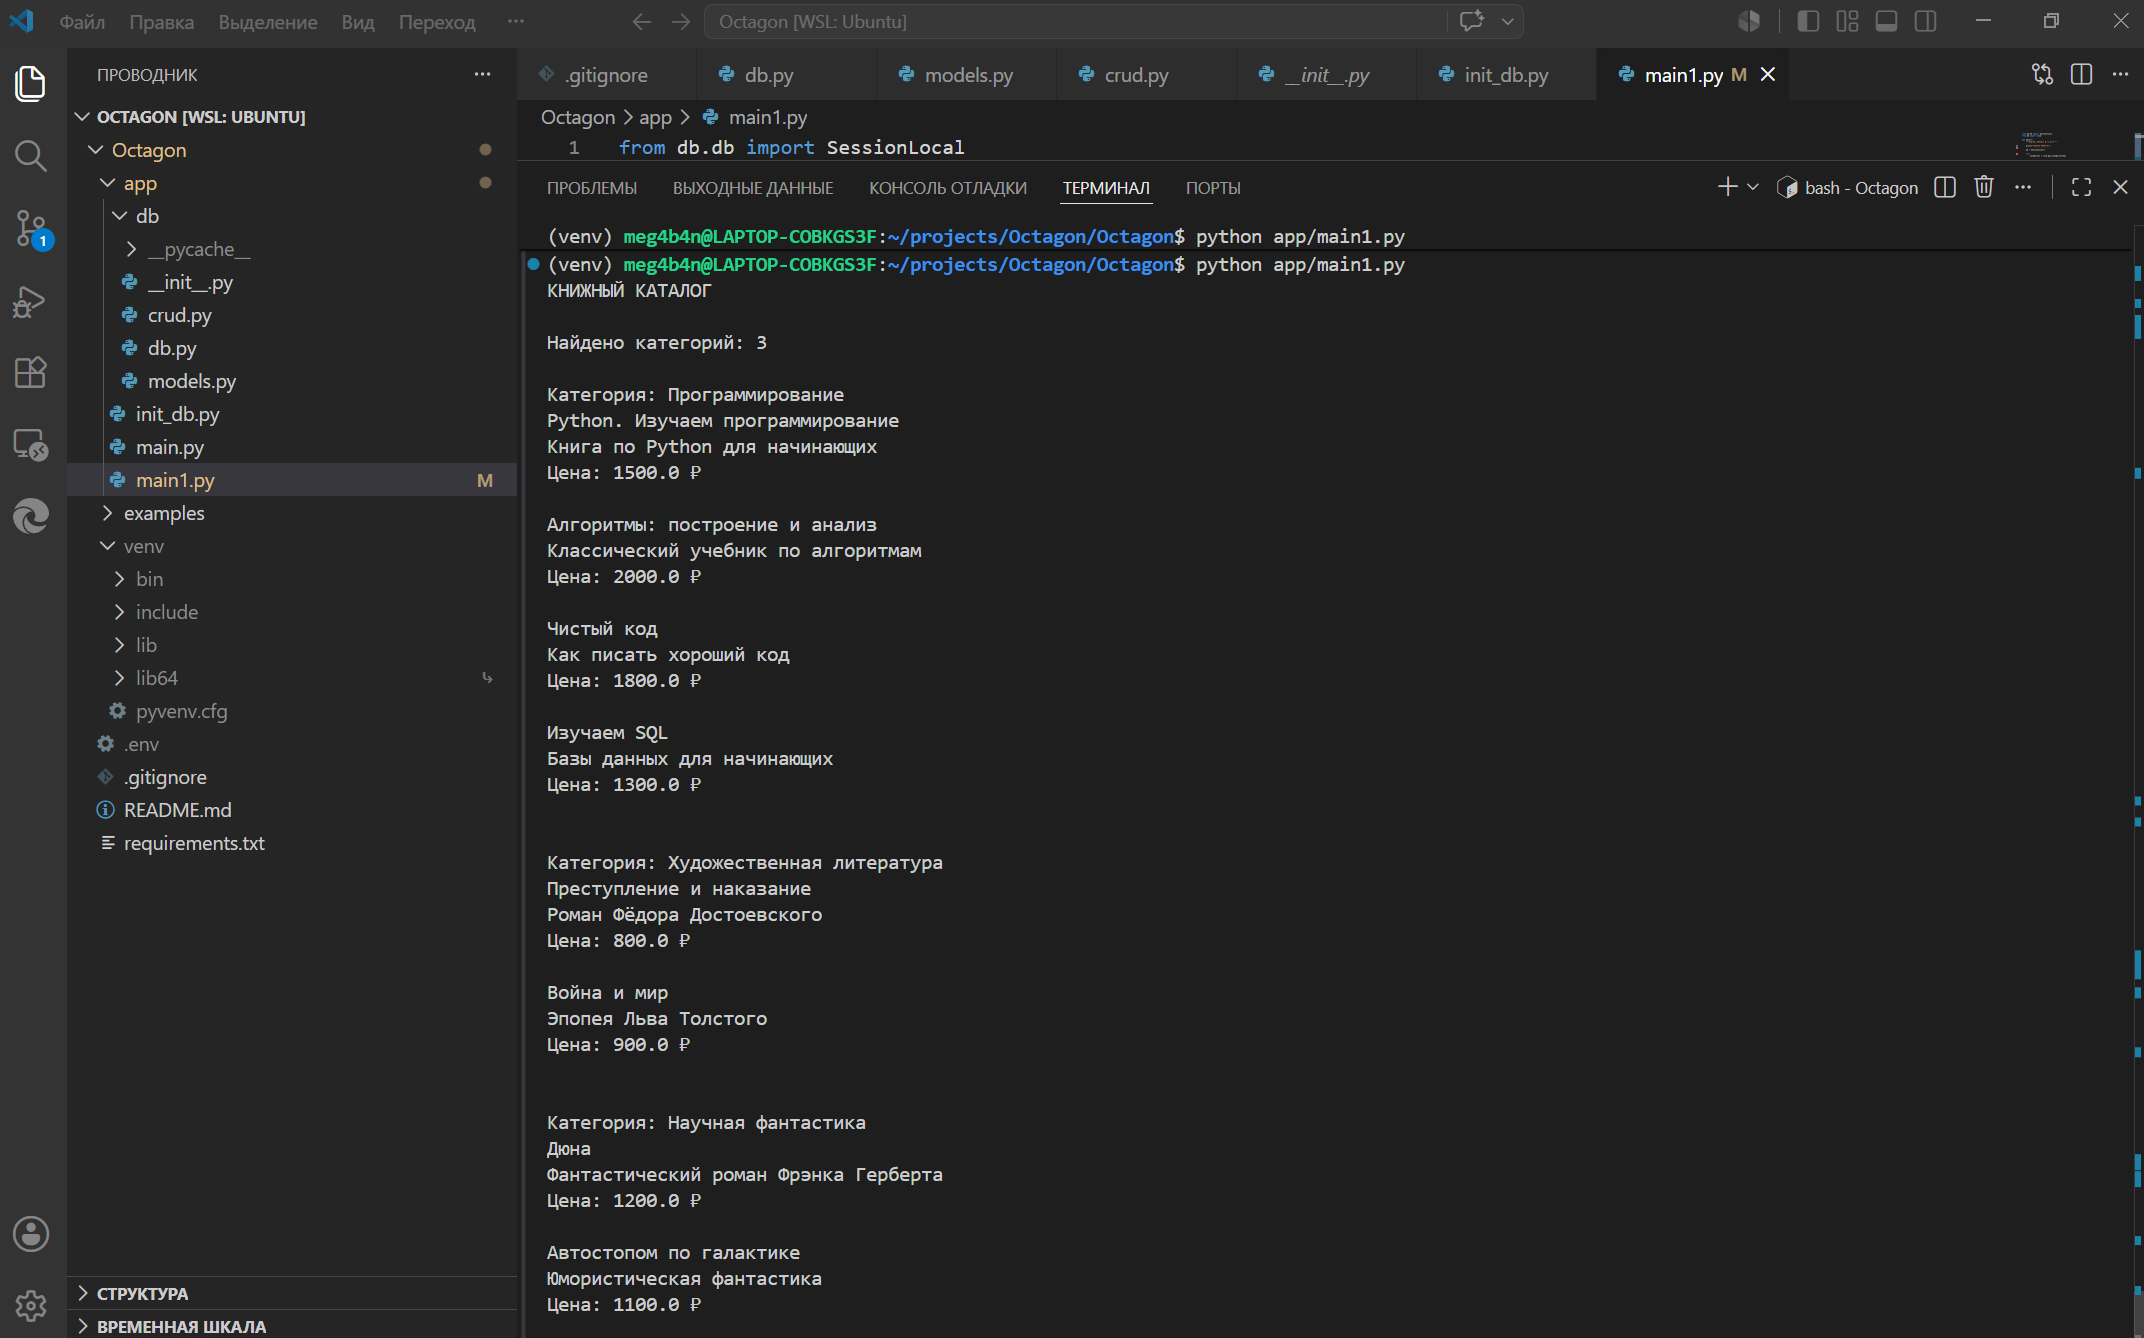
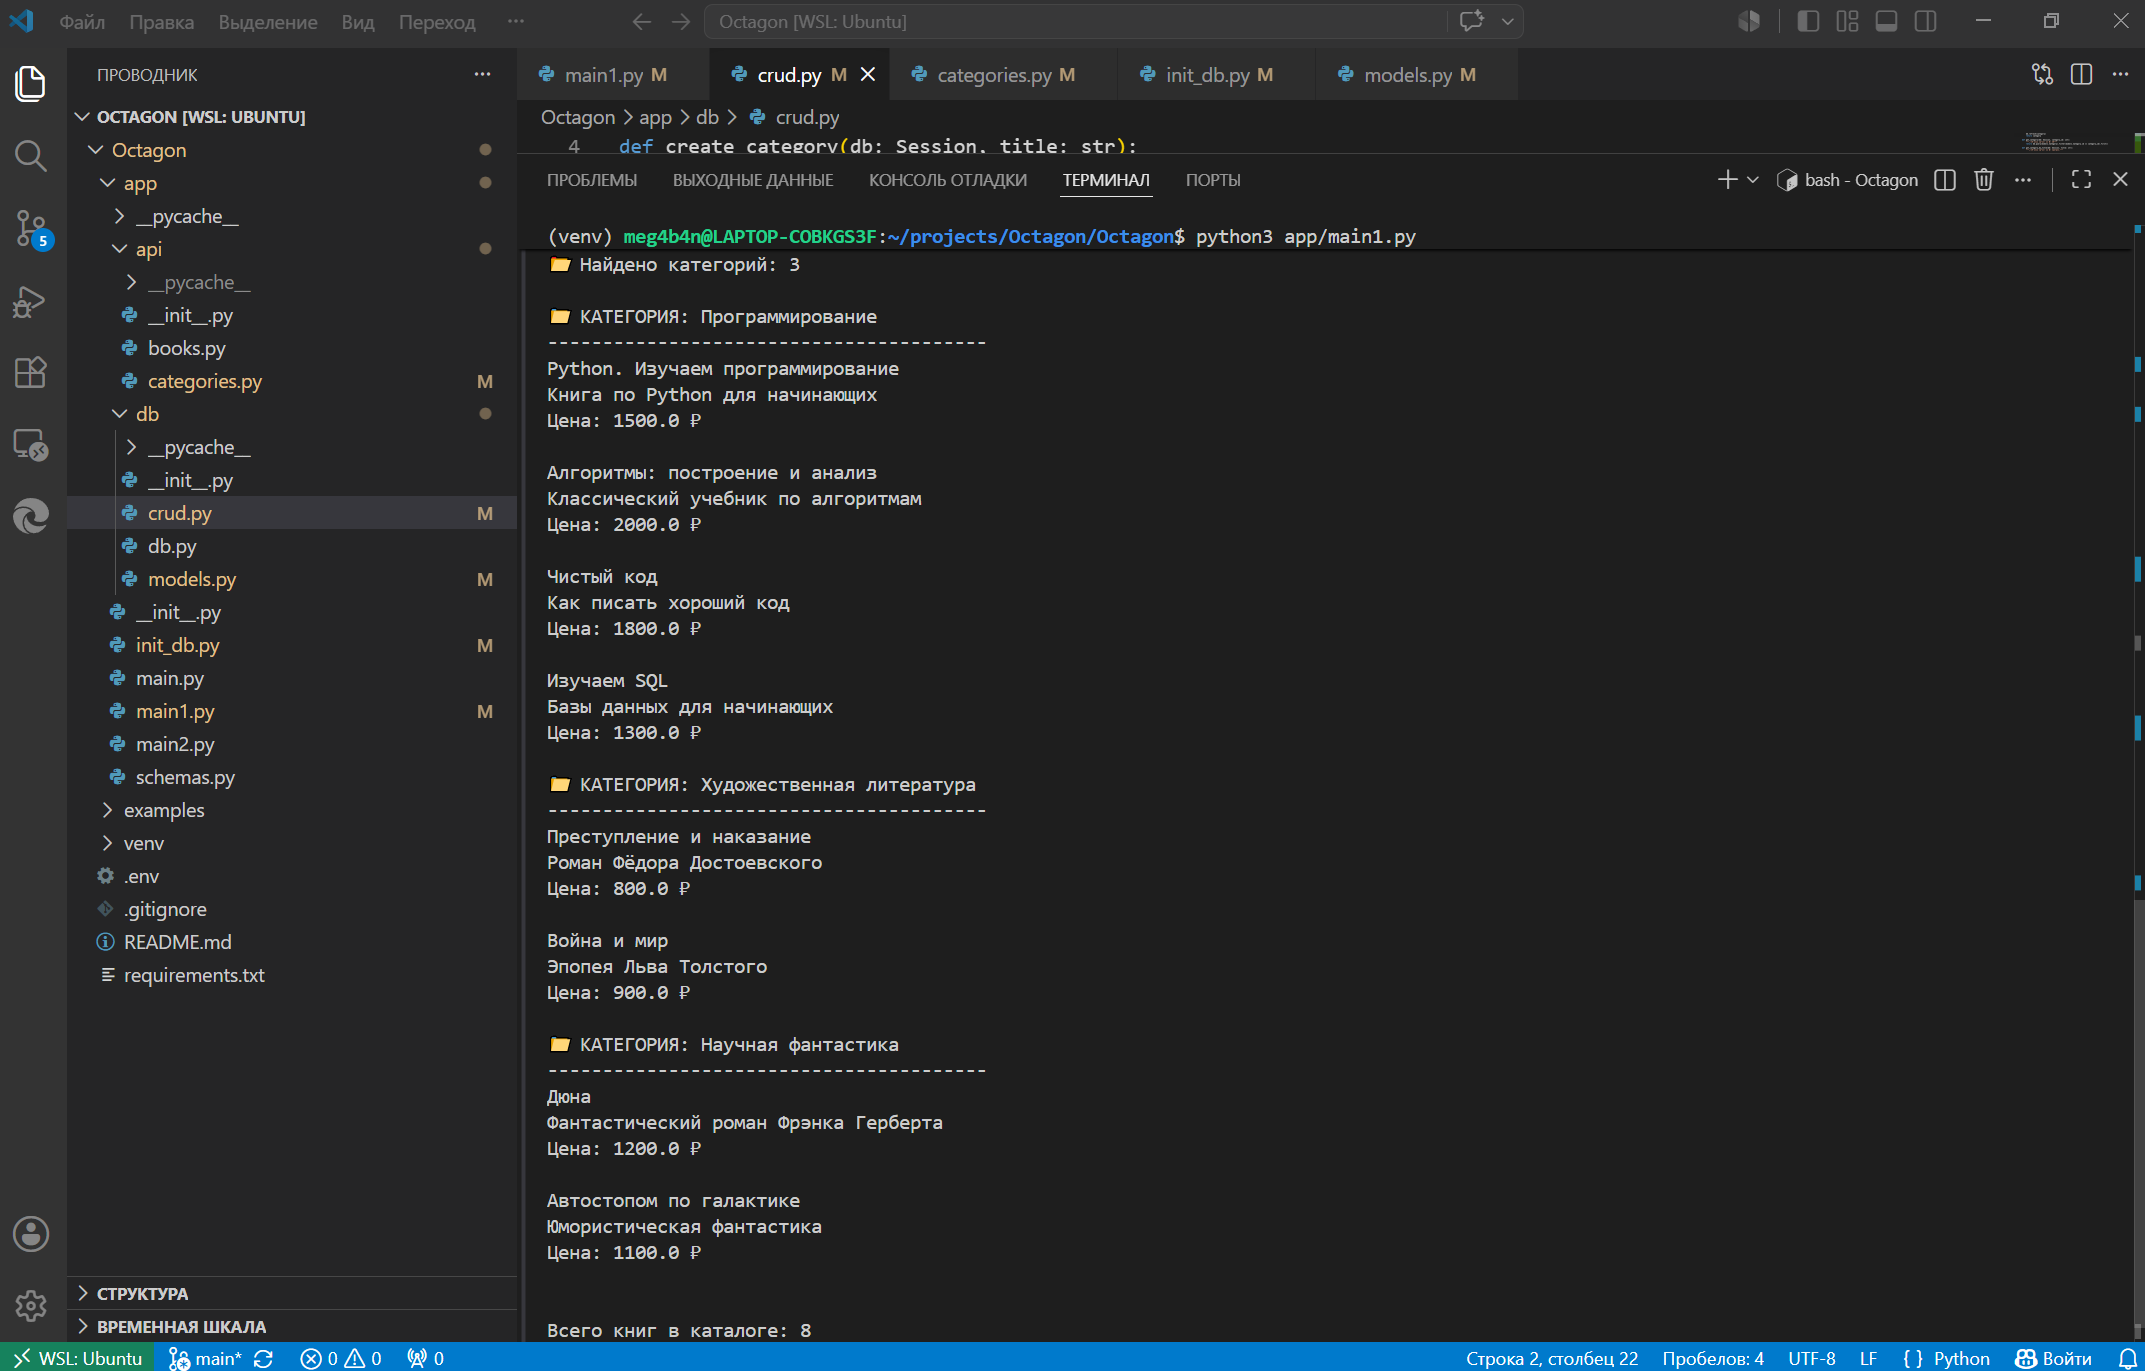
Task 5: Исправлены импорты в db модулях

diff --git a/app/db/crud.py b/app/db/crud.py
@@ -1,5 +1,5 @@
 from sqlalchemy.orm import Session
-from app.db import models
+from db import models
 
 def create_category(db: Session, title: str):
     """Создание категории"""
@@ -21,6 +21,16 @@ def get_categories(db: Session, skip: int = 0, limit: int = 100):
     """Получение всех категорий"""
     return db.query(models.Category).offset(skip).limit(limit).all()
 
+def update_category(db: Session, category_id: int, title: str):
+    """Обновление категории"""
+    category = get_category(db, category_id)
+    if category:
+        category.title = title
+        db.commit()
+        db.refresh(category)
+        return category
+    return None
+
 def delete_category(db: Session, category_id: int):
     """Удаление категории"""
     category = get_category(db, category_id)
@@ -30,6 +40,7 @@ def delete_category(db: Session, category_id: int):
         return True
     return False
 
+# ---------- BOOKS CRUD ----------
 def create_book(db: Session, title: str, description: str, price: float, url: str, category_id: int):
     """Создание книги"""
     book = models.Book(
@@ -61,6 +72,20 @@ def update_book_price(db: Session, book_id: int, new_price: float):
     book = get_book(db, book_id)
     if book:
         book.price = new_price
+        db.commit()
+        db.refresh(book)
+        return book
+    return None
+
+def update_book(db: Session, book_id: int, title: str, description: str, price: float, url: str, category_id: int):
+    """Полное обновление книги"""
+    book = get_book(db, book_id)
+    if book:
+        book.title = title
+        book.description = description
+        book.price = price
+        book.url = url
+        book.category_id = category_id
         db.commit()
         db.refresh(book)
         return book

diff --git a/app/init_db.py b/app/init_db.py
@@ -1,11 +1,11 @@
-from app.db.db import SessionLocal, engine, Base
-from app.db import models, crud
+from db.db import SessionLocal, engine, Base
+from db import models, crud
 
 def init_database():
     """Инициализация базы данных"""
     
     Base.metadata.create_all(bind=engine)
-    print("✅ Таблицы созданы")
+    print("Таблицы созданы")
     
     db = SessionLocal()
     
@@ -58,14 +58,15 @@ def init_database():
         ]
         
         for book_data in books_data:
+
             existing_books = crud.get_books(db)
             if not any(b.title == book_data["title"] for b in existing_books):
                 book = crud.create_book(db, **book_data)
                 print(f"Создана книга: {book.title}")
             else:
-                print(f"ℹКнига уже существует: {book_data['title']}")
+                print(f"Книга уже существует: {book_data['title']}")
         
-        print("\nИнициализация базы данных завершена!")
+        print("\n Инициализация базы данных завершена!")
         
     except Exception as e:
         print(f"Ошибка: {e}")

diff --git a/app/main1.py b/app/main1.py
@@ -5,7 +5,7 @@ def main():
     """Главная функция программы"""
     
     print("КНИЖНЫЙ КАТАЛОГ")
-    
+
     db = SessionLocal()
     
     try:
@@ -16,10 +16,11 @@ def main():
             print("Запустите init_db.py для заполнения базы данных.")
             return
         
-        print(f"\nНайдено категорий: {len(categories)}\n")
+        print(f"\n📂 Найдено категорий: {len(categories)}\n")
         
         for category in categories:
-            print(f"Категория: {category.title}")
+            print(f"📁 КАТЕГОРИЯ: {category.title}")
+            print("-" * 40)
             
             books = crud.get_books_by_category(db, category.id)
             
@@ -35,7 +36,7 @@ def main():
                         print(f"{book.url}")
                     print()
             
-            print()
+            
         
         all_books = crud.get_books(db)
         print(f"\nВсего книг в каталоге: {len(all_books)}")

diff --git a/app/api/categories.py b/app/api/categories.py
@@ -33,6 +33,7 @@ def create_category(category: CategoryCreate, db: Session = Depends(get_db)):
 @router.put("/{category_id}", response_model=CategoryResponse)
 def update_category(category_id: int, category: CategoryUpdate, db: Session = Depends(get_db)):
     """Обновить категорию"""
+
     existing = crud.get_category(db, category_id)
     if not existing:
         raise HTTPException(status_code=404, detail="Category not found")
@@ -41,10 +42,10 @@ def update_category(category_id: int, category: CategoryUpdate, db: Session = De
         title_exists = crud.get_category_by_title(db, category.title)
         if title_exists and title_exists.id != category_id:
             raise HTTPException(status_code=400, detail="Category with this title already exists")
-        existing.title = category.title
+        
+        updated = crud.update_category(db, category_id, category.title)
+        return updated
     
-    db.commit()
-    db.refresh(existing)
     return existing
 
 @router.delete("/{category_id}", status_code=status.HTTP_204_NO_CONTENT)

diff --git a/app/db/models.py b/app/db/models.py
@@ -1,6 +1,6 @@
 from sqlalchemy import Column, Integer, String, Float, ForeignKey
 from sqlalchemy.orm import relationship
-from app.db.db import Base
+from db.db import Base
 
 class Category(Base):
     __tablename__ = "categories"